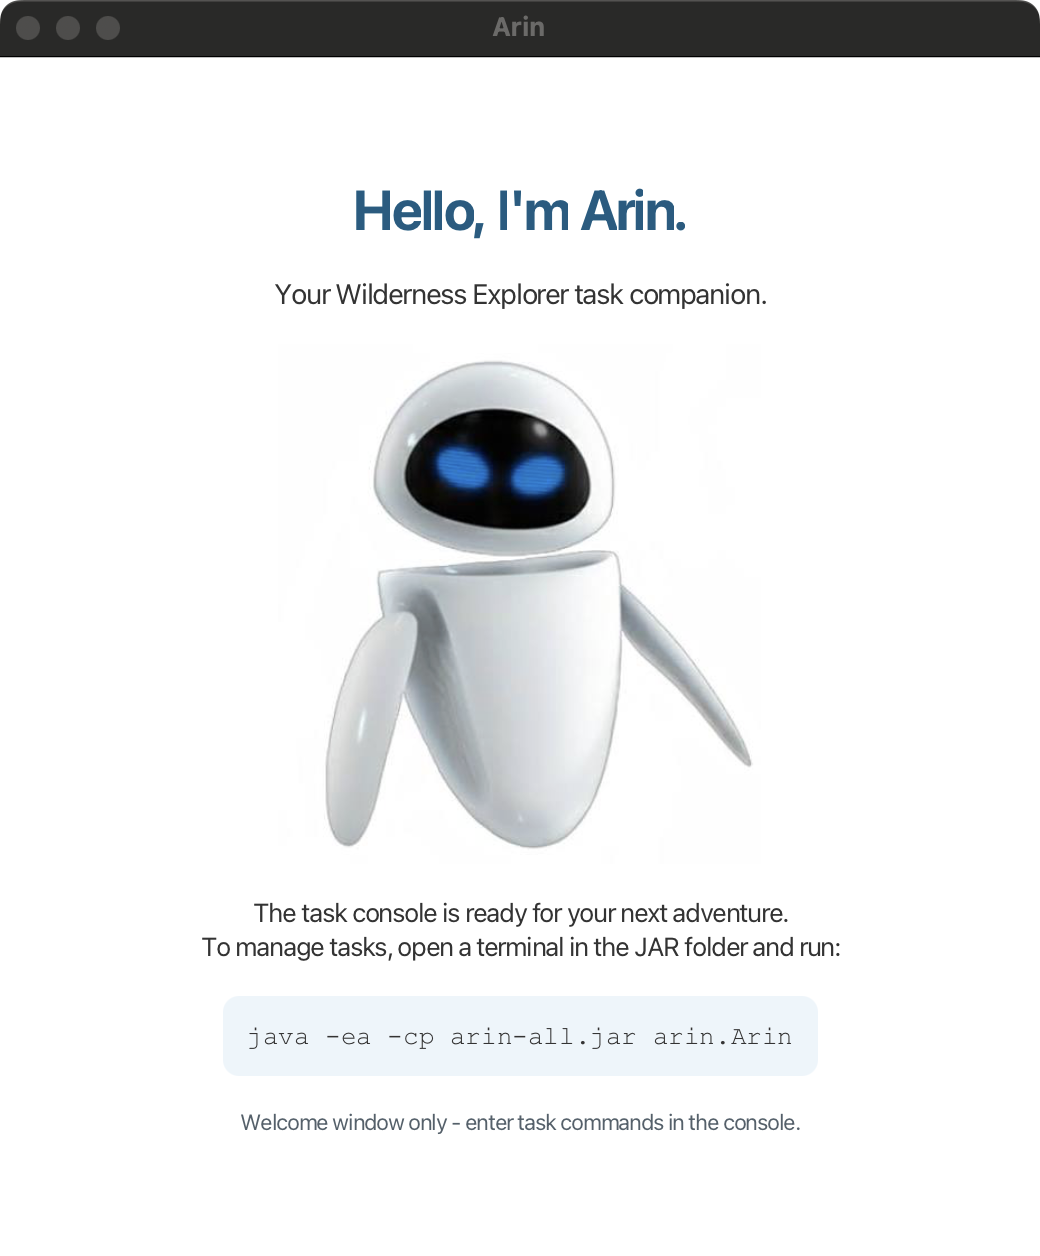
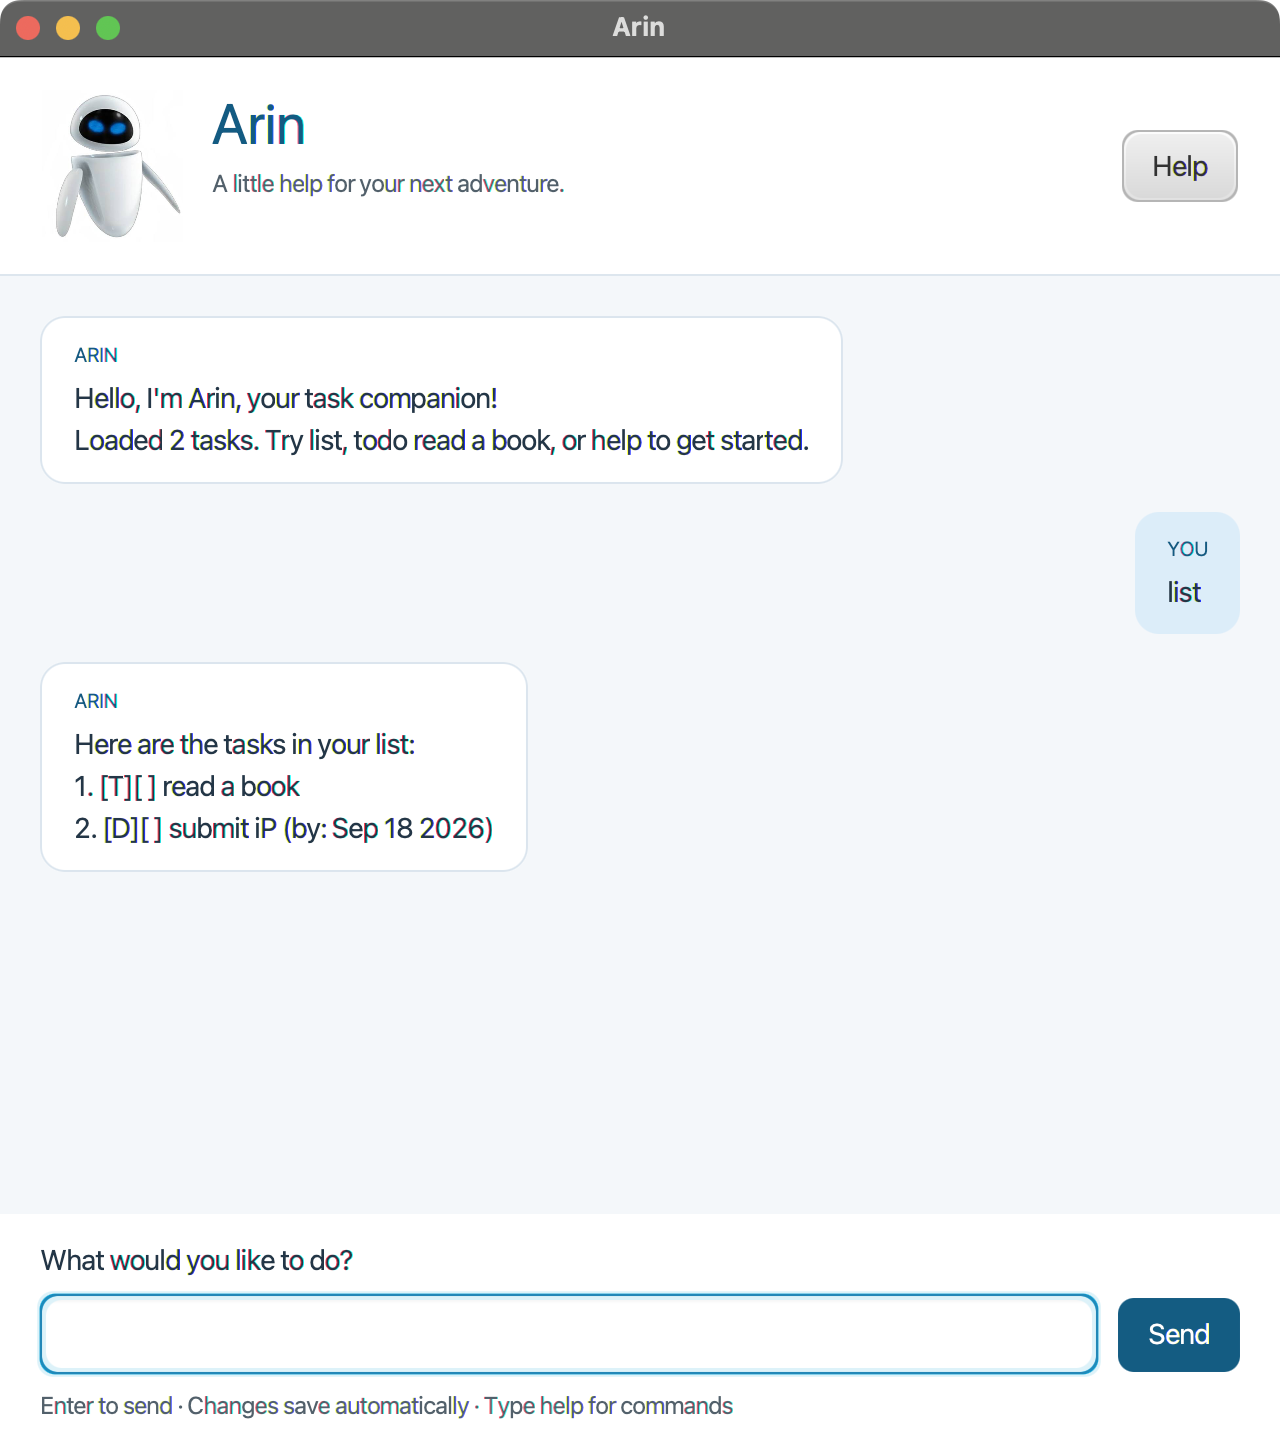
Make the Arin window an interactive task chat
The welcome window required a separate console for task commands and
did not meet the final GUI requirement.

Connect a reusable FXML controller to the persistent command session.
Support Enter, Send, and Help, and keep messages readable when the
window is resized. Distinguish user messages, replies, and errors with
alignment, labels, and colors while retaining the supplied robot image.

Exercise the real controls, task commands, restart, and resizing with a
standalone GUI smoke test. Replace the product screenshot with a full
capture of this working interface.

diff --git a/src/main/resources/view/arin.css b/src/main/resources/view/arin.css
@@ -1,0 +1,28 @@
+.app {
+    -fx-font-family: "System";
+    -fx-font-size: 14px;
+    -fx-background-color: #f4f7fa;
+}
+.header {
+    -fx-padding: 16 20;
+    -fx-background-color: white;
+    -fx-border-color: transparent transparent #dde6ee transparent;
+}
+.title { -fx-font-size: 28px; -fx-font-weight: bold; -fx-text-fill: #145c82; }
+.subtitle, .hint { -fx-text-fill: #52616b; -fx-font-size: 12px; }
+.chat-scroll, .chat-scroll > .viewport { -fx-background-color: #f4f7fa; }
+.chat-scroll { -fx-padding: 0; -fx-background-insets: 0; }
+.message { -fx-padding: 12 16; -fx-background-radius: 12; }
+.bot-message { -fx-background-color: white; -fx-border-color: #dbe5ee; -fx-border-radius: 12; }
+.user-message { -fx-background-color: #dcedf9; }
+.message-sender { -fx-font-size: 10px; -fx-font-weight: bold; -fx-text-fill: #145c82; }
+.message-text { -fx-text-fill: #233747; -fx-line-spacing: 3px; }
+.error-message { -fx-background-color: #fff2ee; -fx-border-color: #d18c79; }
+.error-message .message-sender { -fx-text-fill: #9d3218; }
+.composer { -fx-padding: 14 20 18 20; -fx-background-color: white; }
+.input-label { -fx-font-weight: bold; -fx-text-fill: #233747; }
+.text-field { -fx-padding: 10 12; -fx-background-radius: 8; -fx-border-radius: 8; }
+.button { -fx-padding: 9 15; -fx-background-radius: 8; -fx-cursor: hand; }
+.send-button { -fx-background-color: #145c82; -fx-text-fill: white; -fx-font-weight: bold; }
+.send-button:hover { -fx-background-color: #0d4564; }
+.button:focused, .text-field:focused { -fx-border-color: #2387b7; -fx-border-radius: 8; }

diff --git a/src/test/java/arin/GuiSmokeLauncher.java b/src/test/java/arin/GuiSmokeLauncher.java
@@ -1,0 +1,114 @@
+package arin;
+
+import java.io.IOException;
+import java.nio.file.Files;
+import java.nio.file.Path;
+import java.util.stream.Collectors;
+
+import javafx.application.Application;
+import javafx.application.Platform;
+import javafx.event.ActionEvent;
+import javafx.scene.Scene;
+import javafx.scene.control.Button;
+import javafx.scene.control.Label;
+import javafx.scene.control.TextField;
+import javafx.stage.Stage;
+
+/**
+ * Runs a real-window smoke test against the production GUI from an empty working directory.
+ * Run with assertions enabled and the release JAR before test classes on the classpath.
+ */
+public final class GuiSmokeLauncher {
+    private GuiSmokeLauncher() {
+    }
+
+    /**
+     * Launches the smoke-test application without invoking Java's JavaFX launcher shortcut.
+     *
+     * @param args Optional {@code capture} argument to keep the verified window open.
+     * @throws IOException If bundled native libraries cannot be extracted.
+     */
+    public static void main(String[] args) throws IOException {
+        NativeLibraries.prepare();
+        Application.launch(SmokeApplication.class, args);
+    }
+
+    /**
+     * Drives production controls on the JavaFX application thread.
+     */
+    public static class SmokeApplication extends Application {
+        @Override
+        public void start(Stage stage) throws Exception {
+            if (Files.exists(Path.of("data", "arin.txt"))) {
+                throw new IllegalStateException("Run this smoke test in an empty folder to protect your tasks.");
+            }
+            new Main().start(stage);
+            Platform.runLater(() -> checkWindow(stage));
+        }
+
+        /**
+         * Checks command entry, all task types, edits, sorting, errors, restart, and layout.
+         */
+        private void checkWindow(Stage stage) {
+            try {
+                Scene scene = stage.getScene();
+                assert stage.getTitle().equals("Arin");
+                assert messages(scene).contains("Loaded 0 tasks");
+                send(scene, "todo read a book", true);
+                send(scene, "deadline submit iP /by 2026-09-18", false);
+                send(scene, "event team meeting /from 2pm /to 4pm", false);
+                send(scene, "mark 1", false);
+                send(scene, "unmark 1", false);
+                send(scene, "sort deadline", false);
+                send(scene, "find book", false);
+                send(scene, "delete 3", false);
+                send(scene, "mark 0", false);
+                assert !scene.getRoot().lookupAll(".error-message").isEmpty();
+                ((Button) scene.lookup("#helpButton")).fire();
+                assert messages(scene).contains("todo <description>");
+                send(scene, "sort name", false);
+                assert Files.readAllLines(Path.of("data", "arin.txt")).size() == 2;
+
+                // Construct a fresh production window to verify reloading saved data.
+                new Main().start(stage);
+                scene = stage.getScene();
+                assert messages(scene).contains("Loaded 2 tasks");
+                send(scene, "list", true);
+                assert messages(scene).contains("[D][ ] submit iP");
+                assert messages(scene).contains("[T][ ] read a book");
+                stage.setWidth(440);
+                stage.setHeight(480);
+                scene.getRoot().applyCss();
+                scene.getRoot().layout();
+                assert scene.lookup("#commandInput").getBoundsInParent().getWidth() > 100;
+                assert scene.lookup("#sendButton").isVisible();
+                stage.setWidth(640);
+                stage.setHeight(728);
+                System.out.println("GUI_SMOKE_PASS: input, Enter, Send, Help, tasks, errors, resize, restart");
+                if (!getParameters().getRaw().contains("capture")) {
+                    send(scene, "bye", false);
+                    assert scene.lookup("#commandInput").isDisabled();
+                }
+            } catch (Throwable error) {
+                error.printStackTrace();
+                System.exit(1);
+            }
+        }
+
+        private void send(Scene scene, String command, boolean shouldPressEnter) {
+            TextField input = (TextField) scene.lookup("#commandInput");
+            input.setText(command);
+            if (shouldPressEnter) {
+                input.fireEvent(new ActionEvent());
+            } else {
+                ((Button) scene.lookup("#sendButton")).fire();
+            }
+            assert input.getText().isEmpty();
+        }
+
+        private String messages(Scene scene) {
+            return scene.getRoot().lookupAll(".message-text").stream().map(node -> ((Label) node).getText())
+                    .collect(Collectors.joining("\n"));
+        }
+    }
+}

diff --git a/src/main/java/arin/Main.java b/src/main/java/arin/Main.java
@@ -1,70 +1,33 @@
 package arin;
 
+import java.io.IOException;
 import java.util.Objects;
 
+import arin.ui.MainWindow;
 import javafx.application.Application;
-import javafx.geometry.Insets;
-import javafx.geometry.Pos;
+import javafx.fxml.FXMLLoader;
 import javafx.scene.Scene;
-import javafx.scene.control.Label;
-import javafx.scene.image.Image;
-import javafx.scene.image.ImageView;
-import javafx.scene.layout.VBox;
-import javafx.scene.paint.Color;
-import javafx.scene.text.Font;
-import javafx.scene.text.FontWeight;
-import javafx.scene.text.TextAlignment;
 import javafx.stage.Stage;
 
 /**
- * Displays Arin's welcome window and explains how to open the task console.
+ * Opens Arin's interactive JavaFX task companion.
  */
 public class Main extends Application {
     /**
-     * Shows the robot artwork with the product name and console instructions.
+     * Loads the responsive chat layout and connects it to a persistent command session.
      *
      * @param stage Primary stage provided by JavaFX.
+     * @throws IOException If the packaged layout cannot be loaded.
      */
     @Override
-    public void start(Stage stage) {
-        Label title = new Label("Hello, I'm Arin.");
-        title.setFont(Font.font("System", FontWeight.BOLD, 28));
-        title.setTextFill(Color.web("#145c82"));
-
-        Label tagline = new Label("Your Wilderness Explorer task companion.");
-        tagline.setFont(Font.font("System", 14));
-
-        Image robotImage = new Image(Objects.requireNonNull(
-                Main.class.getResource("/images/arin-avatar.jpg"), "Robot artwork is missing").toExternalForm());
-        ImageView avatar = new ImageView(robotImage);
-        avatar.setFitHeight(260);
-        avatar.setPreserveRatio(true);
-        avatar.setSmooth(true);
-        avatar.setAccessibleText("Arin's white robot avatar with blue eyes");
-
-        Label instructions = new Label("The task console is ready for your next adventure.\n"
-                + "To manage tasks, open a terminal in the JAR folder and run:");
-        instructions.setWrapText(true);
-        instructions.setTextAlignment(TextAlignment.CENTER);
-        instructions.setFont(Font.font("System", 13));
-
-        Label command = new Label("java -ea -cp arin-all.jar arin.Arin");
-        command.setFont(Font.font("Monospaced", 13));
-        command.setStyle("-fx-background-color: #edf5fa; -fx-padding: 12; -fx-background-radius: 8;");
-
-        Label notice = new Label("Welcome window only - enter task commands in the console.");
-        notice.setFont(Font.font("System", 11));
-        notice.setTextFill(Color.web("#52616b"));
-
-        VBox content = new VBox(16, title, tagline, avatar, instructions, command, notice);
-        content.setAlignment(Pos.CENTER);
-        content.setPadding(new Insets(28));
-        content.setStyle("-fx-background-color: white;");
-
-        Scene scene = new Scene(content, 520, 600);
+    public void start(Stage stage) throws IOException {
+        FXMLLoader loader = new FXMLLoader(Objects.requireNonNull(Main.class.getResource("/view/MainWindow.fxml")));
+        loader.setController(new MainWindow(new Arin()));
+        Scene scene = new Scene(loader.load(), 640, 700);
+        scene.getStylesheets().add(Objects.requireNonNull(Main.class.getResource("/view/arin.css")).toExternalForm());
         stage.setTitle("Arin");
-        stage.setMinWidth(520);
-        stage.setMinHeight(620);
+        stage.setMinWidth(440);
+        stage.setMinHeight(480);
         stage.setScene(scene);
         stage.show();
     }

diff --git a/src/main/java/arin/ui/MainWindow.java b/src/main/java/arin/ui/MainWindow.java
@@ -1,0 +1,101 @@
+package arin.ui;
+
+import arin.Arin;
+import javafx.animation.PauseTransition;
+import javafx.application.Platform;
+import javafx.fxml.FXML;
+import javafx.geometry.Pos;
+import javafx.scene.control.Button;
+import javafx.scene.control.Label;
+import javafx.scene.control.ScrollPane;
+import javafx.scene.control.TextField;
+import javafx.scene.layout.HBox;
+import javafx.scene.layout.VBox;
+import javafx.util.Duration;
+
+/**
+ * Presents commands and responses as a resizable, keyboard-accessible conversation.
+ */
+public class MainWindow {
+    private final Arin arin;
+
+    @FXML
+    private VBox conversation;
+    @FXML
+    private ScrollPane scrollPane;
+    @FXML
+    private TextField commandInput;
+    @FXML
+    private Button sendButton;
+    @FXML
+    private Button helpButton;
+
+    /**
+     * Connects this window to a shared command session.
+     *
+     * @param arin Session that validates commands and saves tasks.
+     */
+    public MainWindow(Arin arin) {
+        this.arin = arin;
+    }
+
+    /**
+     * Adds startup feedback once the FXML controls have been injected.
+     */
+    @FXML
+    private void initialize() {
+        addMessage(arin.getWelcome(), false);
+        conversation.heightProperty().addListener((observable, oldHeight, newHeight) -> scrollPane.setVvalue(1.0));
+        Platform.runLater(commandInput::requestFocus);
+    }
+
+    @FXML
+    private void sendCommand() {
+        String command = commandInput.getText();
+        commandInput.clear();
+        addMessage(command.isBlank() ? "(empty command)" : command, true);
+        addMessage(arin.getResponse(command), false);
+        if (arin.isExit()) {
+            commandInput.setDisable(true);
+            sendButton.setDisable(true);
+            helpButton.setDisable(true);
+            PauseTransition goodbyeDelay = new PauseTransition(Duration.seconds(1));
+            goodbyeDelay.setOnFinished(event -> Platform.exit());
+            goodbyeDelay.play();
+        } else {
+            commandInput.requestFocus();
+        }
+    }
+
+    @FXML
+    private void showHelp() {
+        commandInput.setText("help");
+        sendCommand();
+    }
+
+    /**
+     * Uses asymmetric alignment and explicit error labels, with text that wraps on resize.
+     */
+    private void addMessage(String text, boolean isUser) {
+        boolean isError = !isUser && text.startsWith("Oops!");
+        Label sender = new Label(isUser ? "YOU" : isError ? "ARIN · CHECK YOUR COMMAND" : "ARIN");
+        sender.getStyleClass().add("message-sender");
+        Label message = new Label(text);
+        message.setWrapText(true);
+        message.setMinWidth(0);
+        message.setMaxWidth(Double.MAX_VALUE);
+        message.setAccessibleText(text);
+        message.getStyleClass().add("message-text");
+        VBox bubble = new VBox(6, sender, message);
+        bubble.setMinWidth(0);
+        bubble.maxWidthProperty().bind(scrollPane.widthProperty().subtract(isUser ? 110 : 56));
+        bubble.getStyleClass().addAll("message", isUser ? "user-message" : "bot-message");
+        if (isError) {
+            bubble.getStyleClass().add("error-message");
+        }
+        HBox row = new HBox(bubble);
+        row.setAlignment(isUser ? Pos.TOP_RIGHT : Pos.TOP_LEFT);
+        conversation.getChildren().add(row);
+        Platform.runLater(() -> scrollPane.setVvalue(1.0));
+    }
+}
